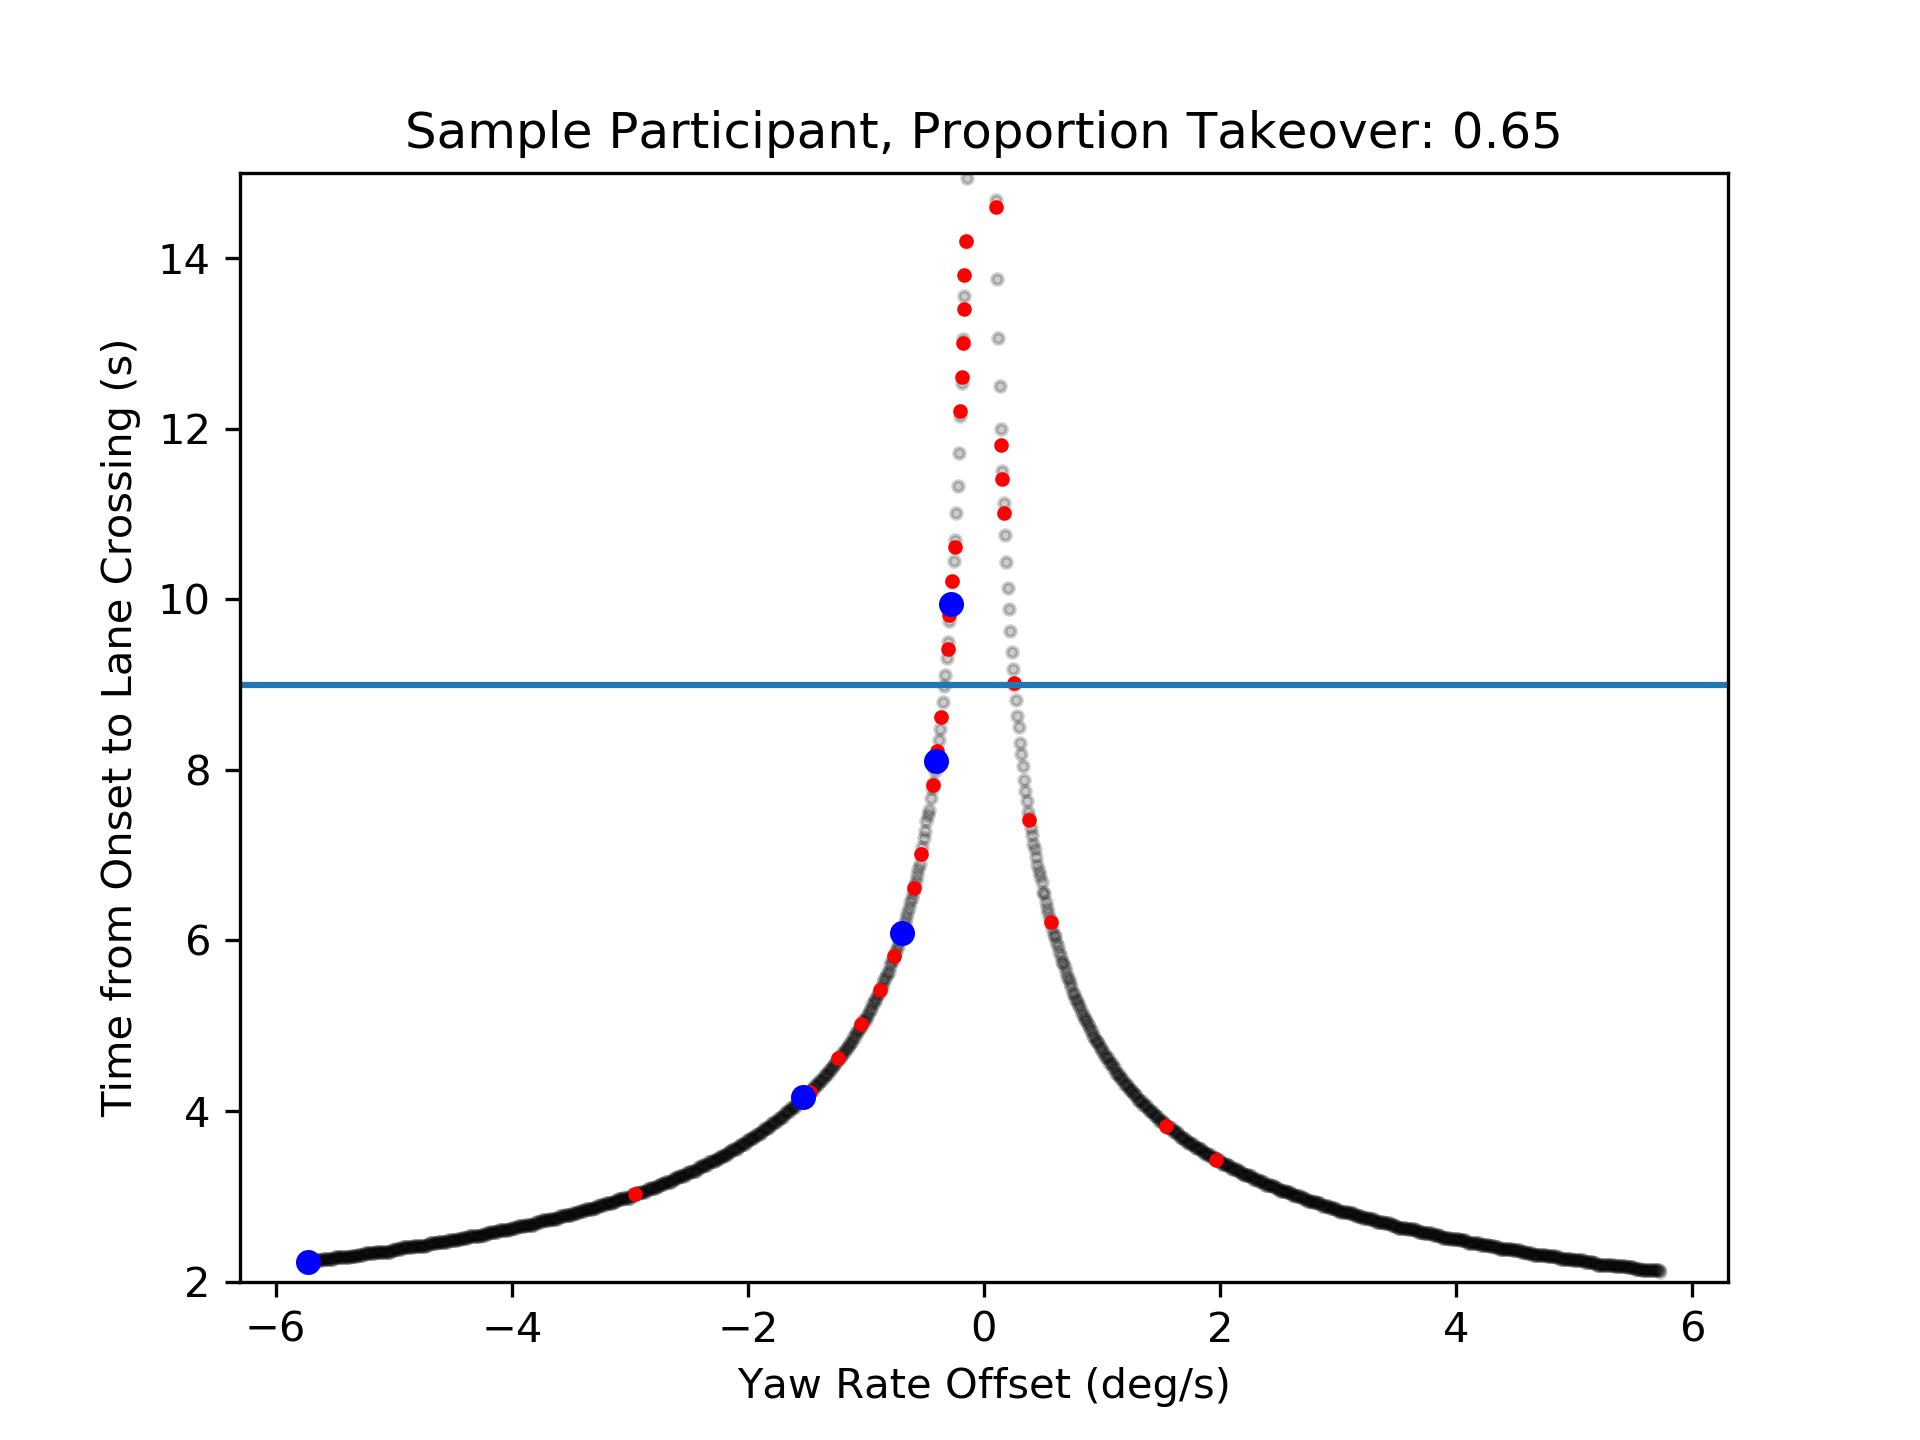
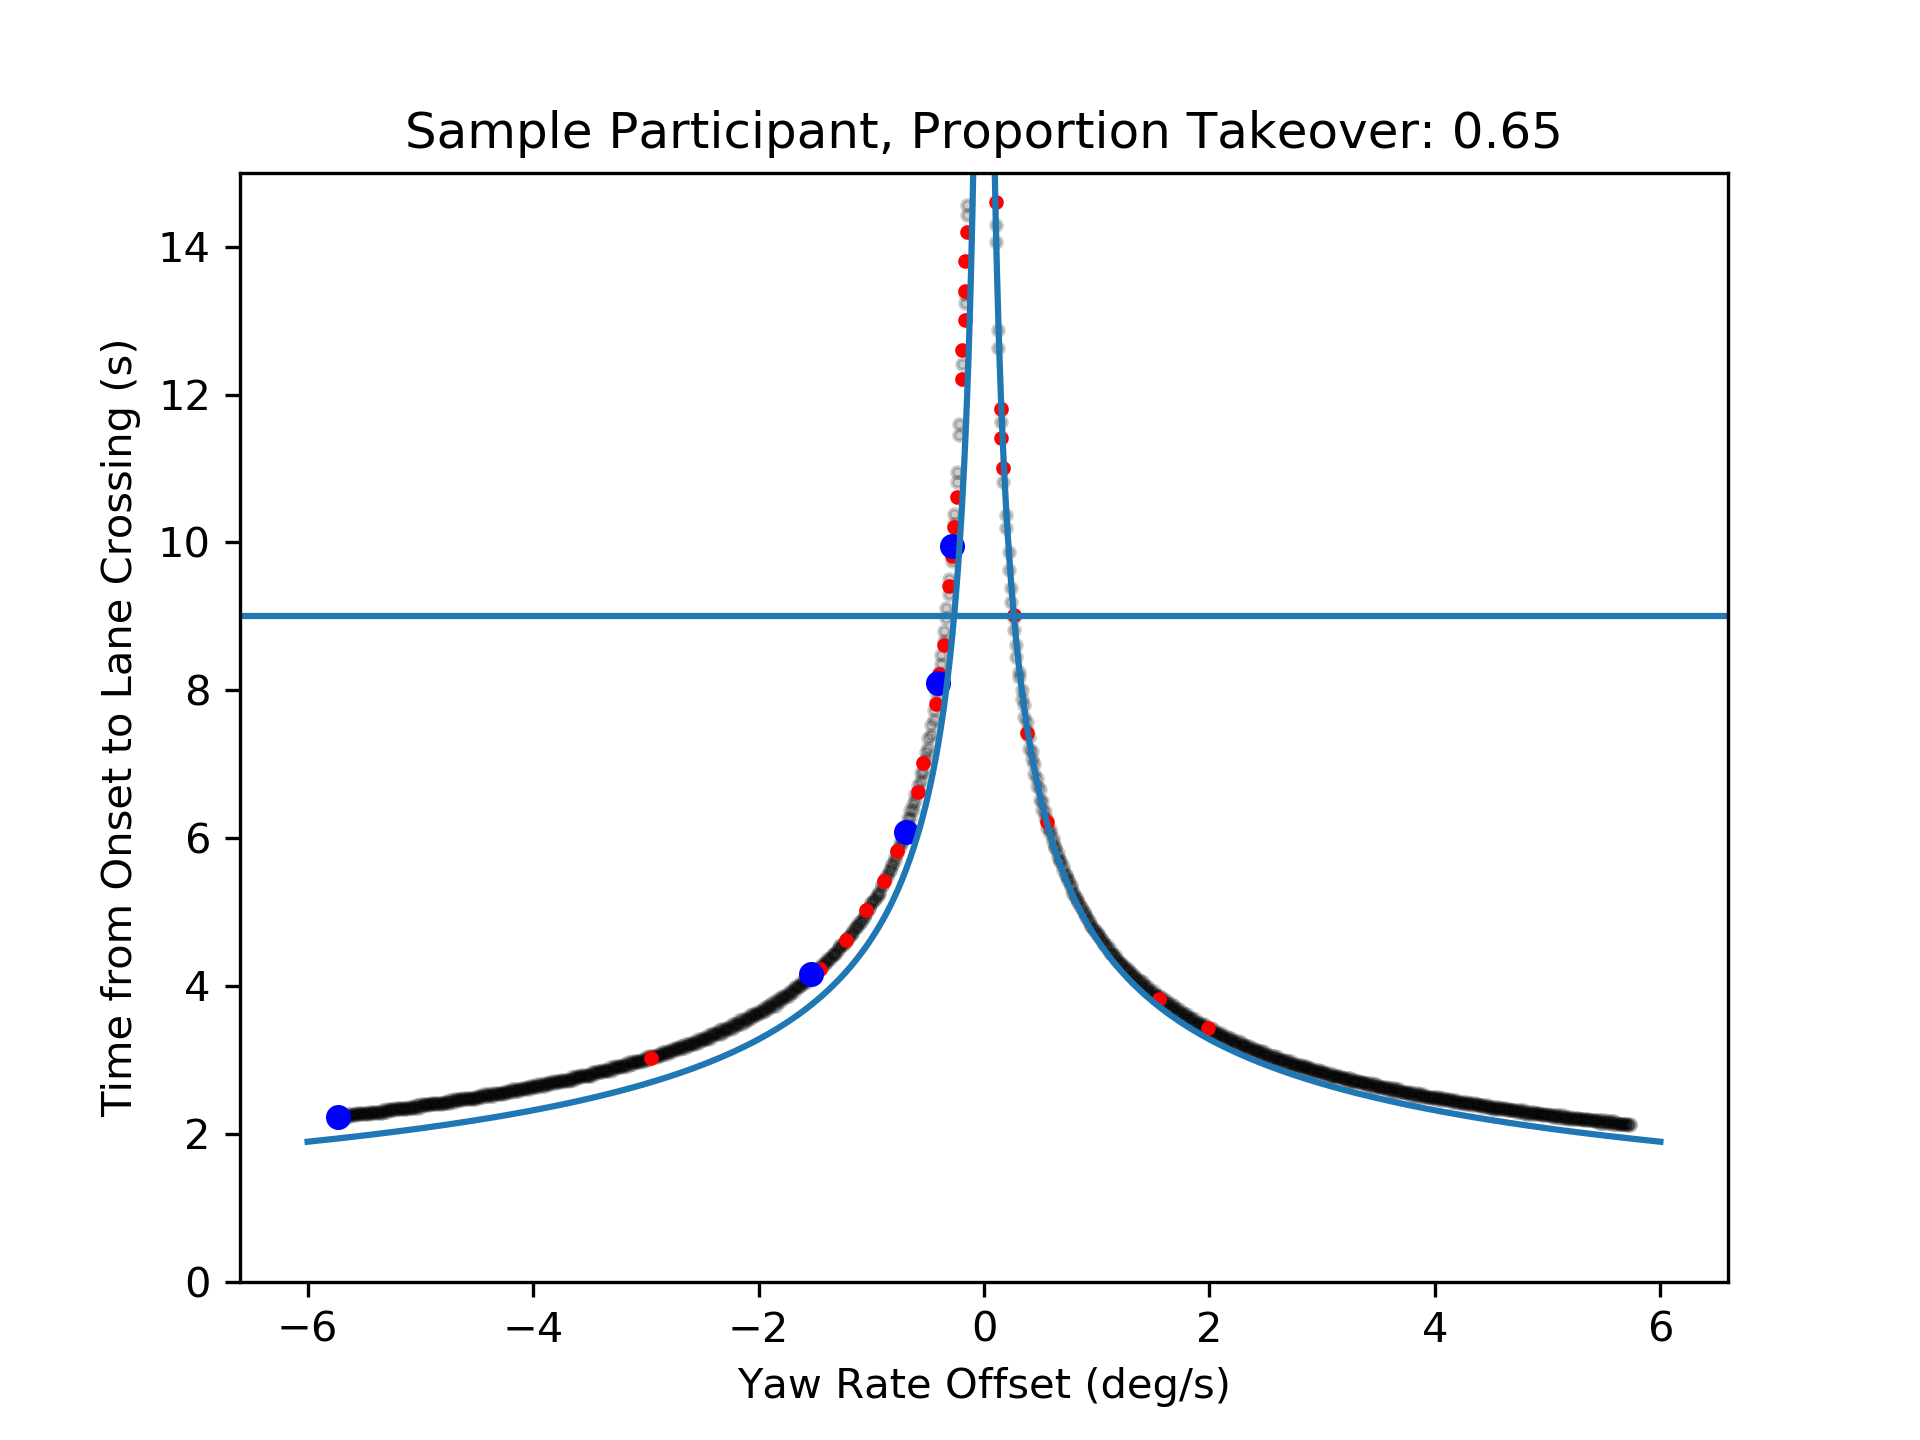
plotting approximate ttlc

diff --git a/TrackSimulation_sobol.py b/TrackSimulation_sobol.py
@@ -257,7 +257,8 @@ if __name__ == '__main__':
     
     #***** retrieve approximations of SAB ******
         
-    filename = "SimResults_onset_6_traj_80_1.csv"
+    #filename = "SimResults_onset_6_traj_80_1.csv"
+    filename = "simulated_roadcrossing.csv"
     #columns are: yr_offset, file_i, onsettime, time_til_crossing
     balanced_results = np.genfromtxt(filename, delimiter=',')
 
@@ -283,11 +284,22 @@ if __name__ == '__main__':
         sab_sobol[i] = sab
 
 
+    def map_ttlc_to_sab(ttlc, width = 1.5, vel = 8.0):
+
+        sab = width / ((ttlc**2)*  vel)
+        return (np.degrees(sab))
+
+    print("2.23", map_ttlc_to_sab(2.23))
+    sab_mapped = map_ttlc_to_sab(ttlc_sobol)
+    print ("sab_sobol:", sab_sobol[1:5])
+    print ("sab_mapped:", sab_mapped[1:5])
+
     #columns: yr_offset, file_i, onsettime, time_til_crossing
     totalrows = Trials
     
     simResults = np.empty([totalrows,4]) 
     
+
 
     #each run has pre-set parameters
     for i, sab in enumerate(sab_sobol):
@@ -342,7 +354,8 @@ if __name__ == '__main__':
     stay_balanced = prop_stay(balanced_ttlcs_reps)
     print("stay_balanced", stay_balanced)
 
-    
+    sab_rng = np.linspace(-6, 6, 1000)
+    approx_ttlc = np.sqrt(3.0/(np.radians(np.abs(sab_rng))*8))
 
     plt.figure(2)
     plt.plot(balanced_results[:,0], balanced_results[:,3], 'k.', markersize=5, alpha = .2)
@@ -352,7 +365,8 @@ if __name__ == '__main__':
     plt.plot(balanced_sab, balanced_ttlc, 'b.', markersize = 10)
     plt.title("Sample Participant, Proportion Takeover: " + str(1-proportion_stay))
     plt.axhline(y = 9)
-    plt.ylim([2, 15])
+    plt.ylim([0, 15])
+    plt.plot(sab_rng, approx_ttlc)
     plt.savefig('sample_sobol.png', dpi = 300)
     plt.show()
 

diff --git a/TrackSimulation.py b/TrackSimulation.py
@@ -236,14 +236,14 @@ if __name__ == '__main__':
     #OnsetTimePool = np.arange(5, 9.25, step = .25) 
 
     #onset time pool = 6 s
-    OnsetTimePool = [6]
+    OnsetTimePool = [5, 7, 9]
 
     #yawrateoffsets = np.linspace(-4,2,1000)
 
     bend_yr = np.rad2deg(8.0 / myrads)
     #yawrateoffsets = [-bend_yr]
     
-    yawrateoffsets = np.linspace(-bend_yr,bend_yr,1000)
+    yawrateoffsets = np.linspace(-bend_yr,bend_yr,500)
     print(-bend_yr)
     #columns: yr_offset, file_i, onsettime, time_til_crossing
     totalrows = len(yawrateoffsets) \
@@ -281,7 +281,8 @@ if __name__ == '__main__':
     
     #np.savetxt("SimResults_OnsetTimes_"+str(myrads)+".csv", simResults, delimiter=",")
 
-    np.savetxt("SimResults_onset_6_traj_80_1.csv", simResults, delimiter=",")
+   # np.savetxt("SimResults_onset_6_traj_80_1.csv", simResults, delimiter=",")
+    np.savetxt("simulated_roadcrossing.csv", simResults, delimiter=",")
 
     #plot yr and time til crossing functions.
     # plt.figure(2)
